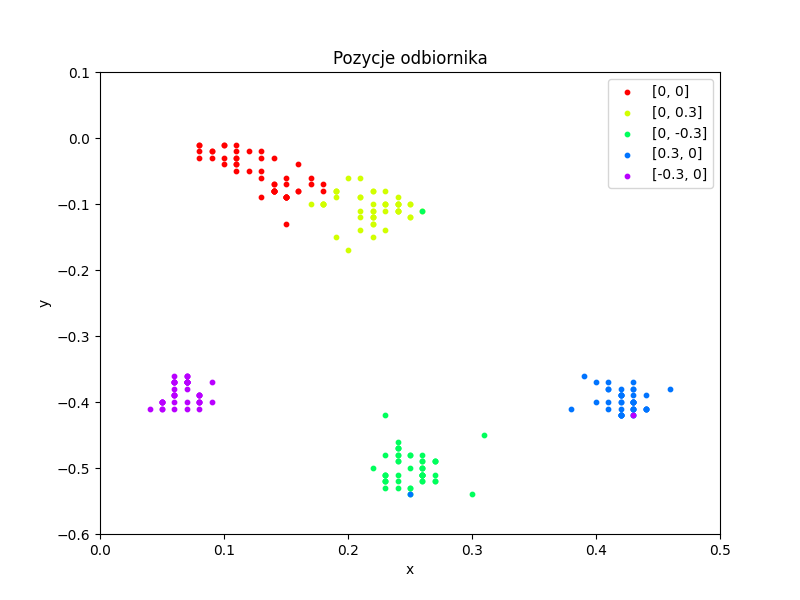
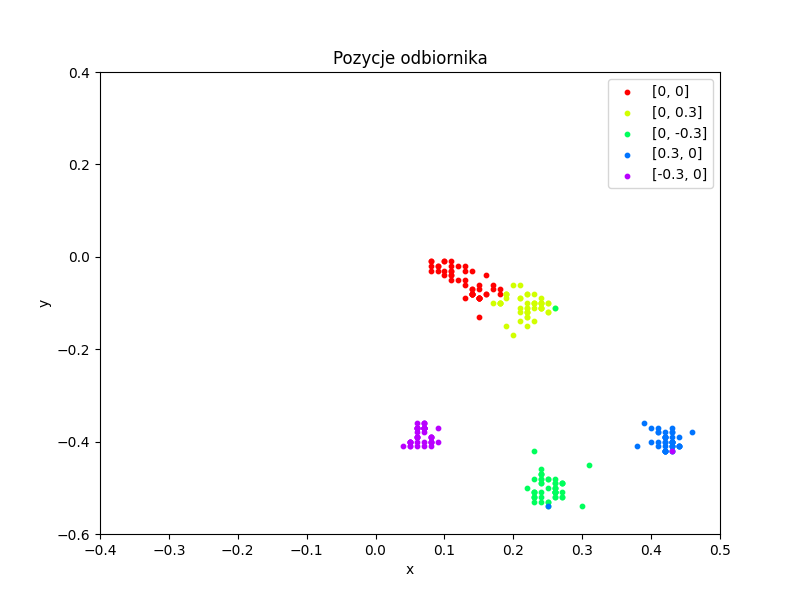
Added original points

diff --git a/src/python/data/mult_lat_2d/mult_lat.py b/src/python/data/mult_lat_2d/mult_lat.py
@@ -3,6 +3,8 @@ import numpy as np
 import os
 import re
 import pandas as pd
+import colorsys
+import matplotlib.colors as mc
 
 def plot_charts(df, point, nodes, lims):
     fig, ax = plt.subplots()
@@ -25,6 +27,14 @@ def plot_charts(df, point, nodes, lims):
 def get_cmap(n, name='hsv'):
     return plt.cm.get_cmap(name, n)
 
+def lighten_color(color, amount=0.5):
+    try:
+        c = mc.cnames[color]
+    except:
+        c = color
+    c = colorsys.rgb_to_hls(*mc.to_rgb(c))
+    return colorsys.hls_to_rgb(c[0], 1 - amount * (1 - c[1]), c[2])
+
 def plot_multiple(df_dict, lims, num, mean=False):
     fig, ax = plt.subplots()
     if lims is not None:
@@ -34,9 +44,11 @@ def plot_multiple(df_dict, lims, num, mean=False):
     cmap = get_cmap(len(df_dict)+1)
 
     for i, (point, df) in enumerate(df_dict.items()):
+        x, y = float(point[1:point.rfind(',')]), float(point[point.rfind(',')+1:-1])
         if mean:
             df_mean = pd.DataFrame(df.mean()).T
             df_mean.plot(x='x', y='y', kind='scatter', s=100, ax=ax, label=point, color=cmap(i))
+            ax.scatter(x, y, color=lighten_color(cmap(i), 0.4))
         else:
             df.plot(x='x', y='y', kind='scatter', s=10, ax=ax, label=point, color=cmap(i))
         
@@ -91,8 +103,8 @@ if __name__ == '__main__':
                                                   '[0.15, -0.15]']}
 
     plot_multiple(dict_1, {'xlim': (-0.4, 0.9), 'ylim': (-0.8, 0.4)}, 1)
-    plot_multiple(dict_2, {'xlim': (0, 0.5), 'ylim': (-0.6, 0.1)}, 2)
+    plot_multiple(dict_2, {'xlim': (-0.4, 0.5), 'ylim': (-0.6, 0.4)}, 2)
     plot_multiple(dict_3, {'xlim': (-0.8, 0.4), 'ylim': (-0.9, 0.3)}, 3)
     plot_multiple(dict_1, {'xlim': (-0.4, 0.9), 'ylim': (-0.8, 0.4)}, 1, mean=True)
-    plot_multiple(dict_2, {'xlim': (0, 0.5), 'ylim': (-0.6, 0.1)}, 2, mean=True)
+    plot_multiple(dict_2, {'xlim': (-0.4, 0.5), 'ylim': (-0.6, 0.4)}, 2, mean=True)
     plot_multiple(dict_3, {'xlim': (-0.8, 0.4), 'ylim': (-0.9, 0.3)}, 3, mean=True)
